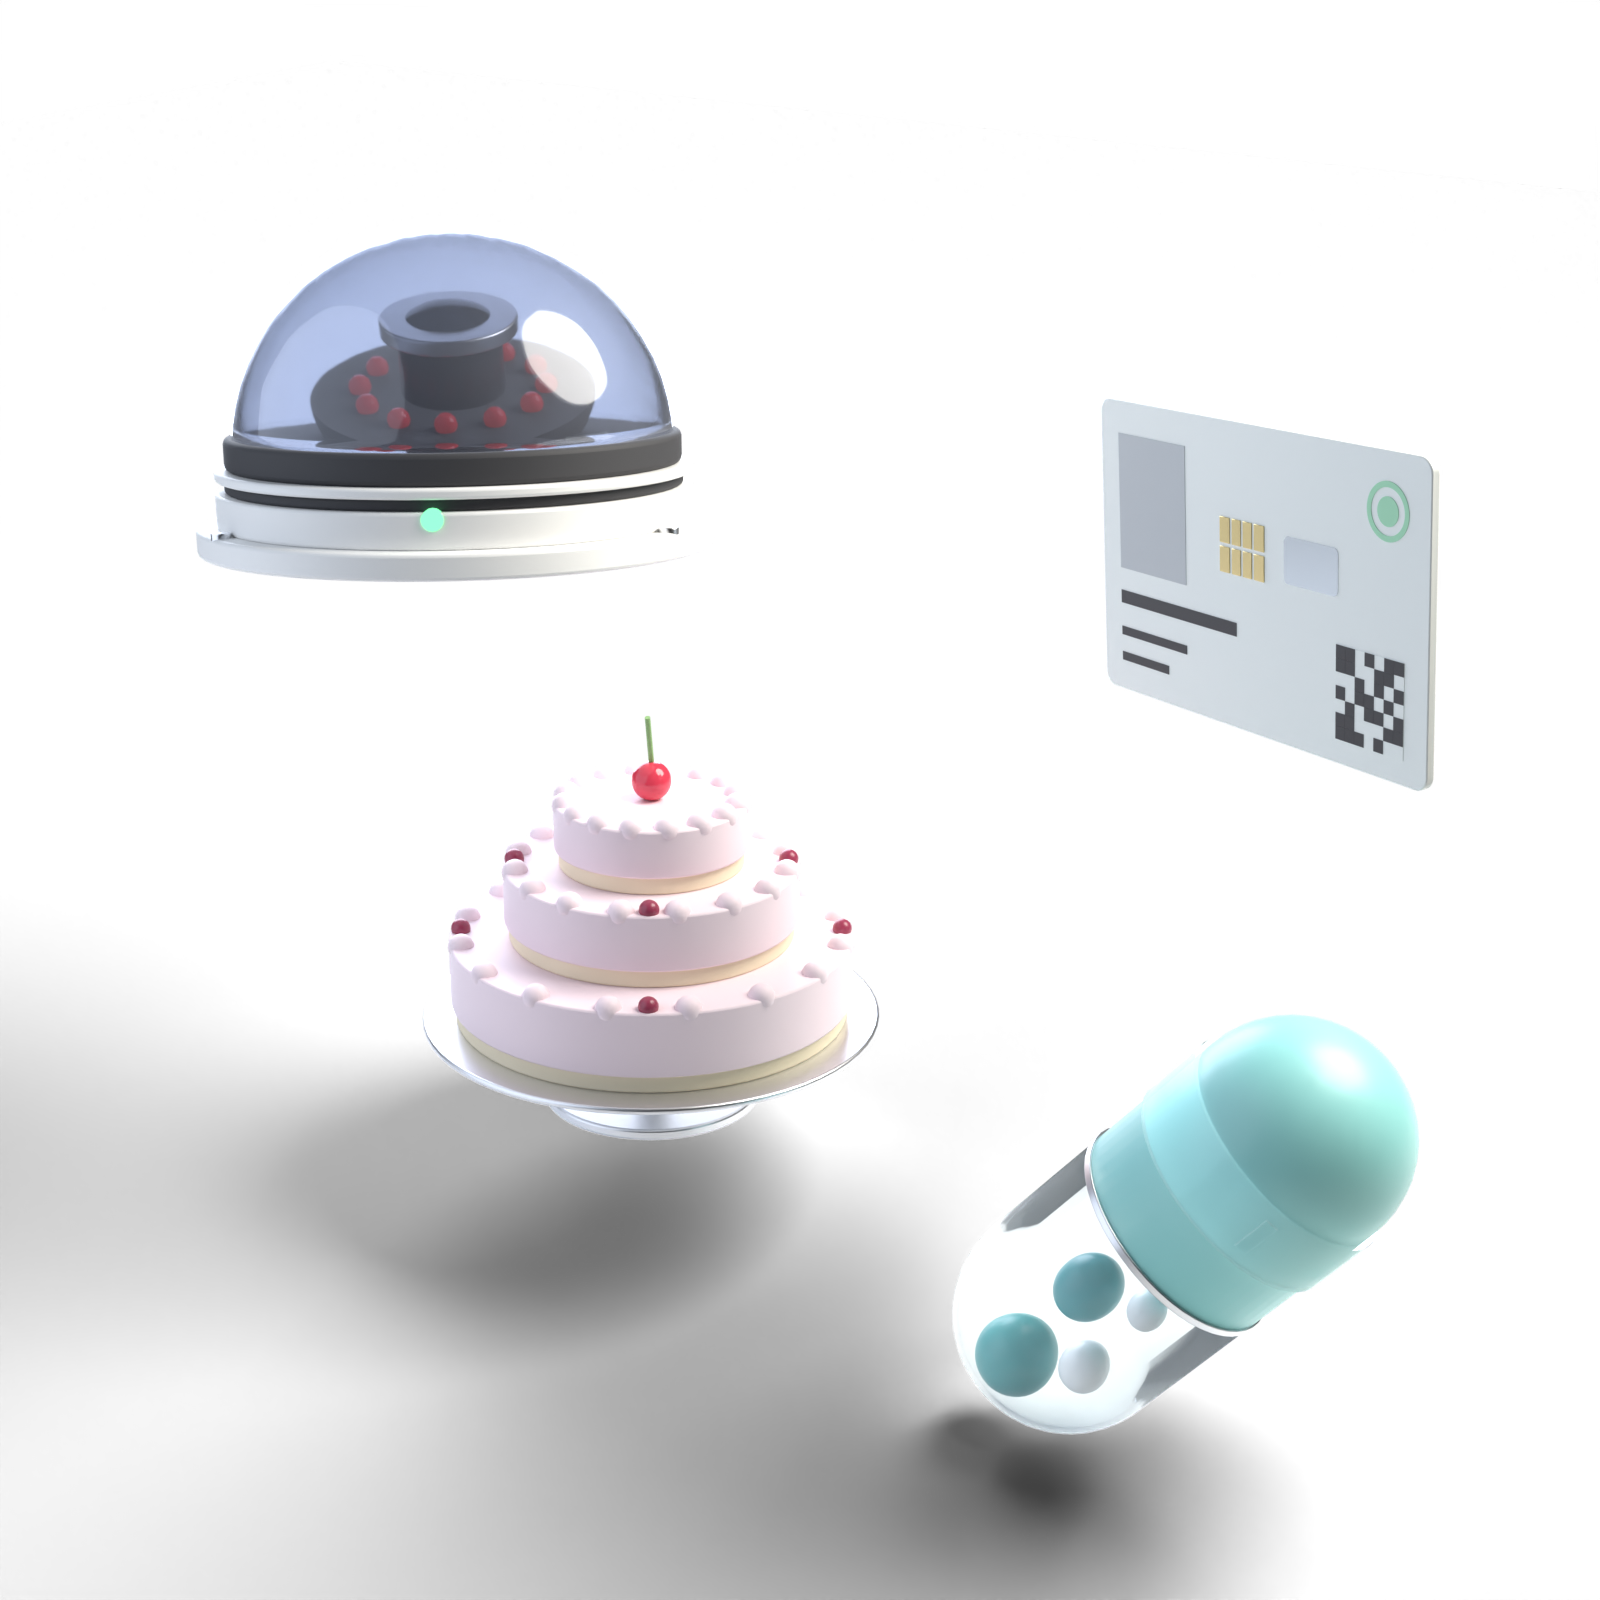
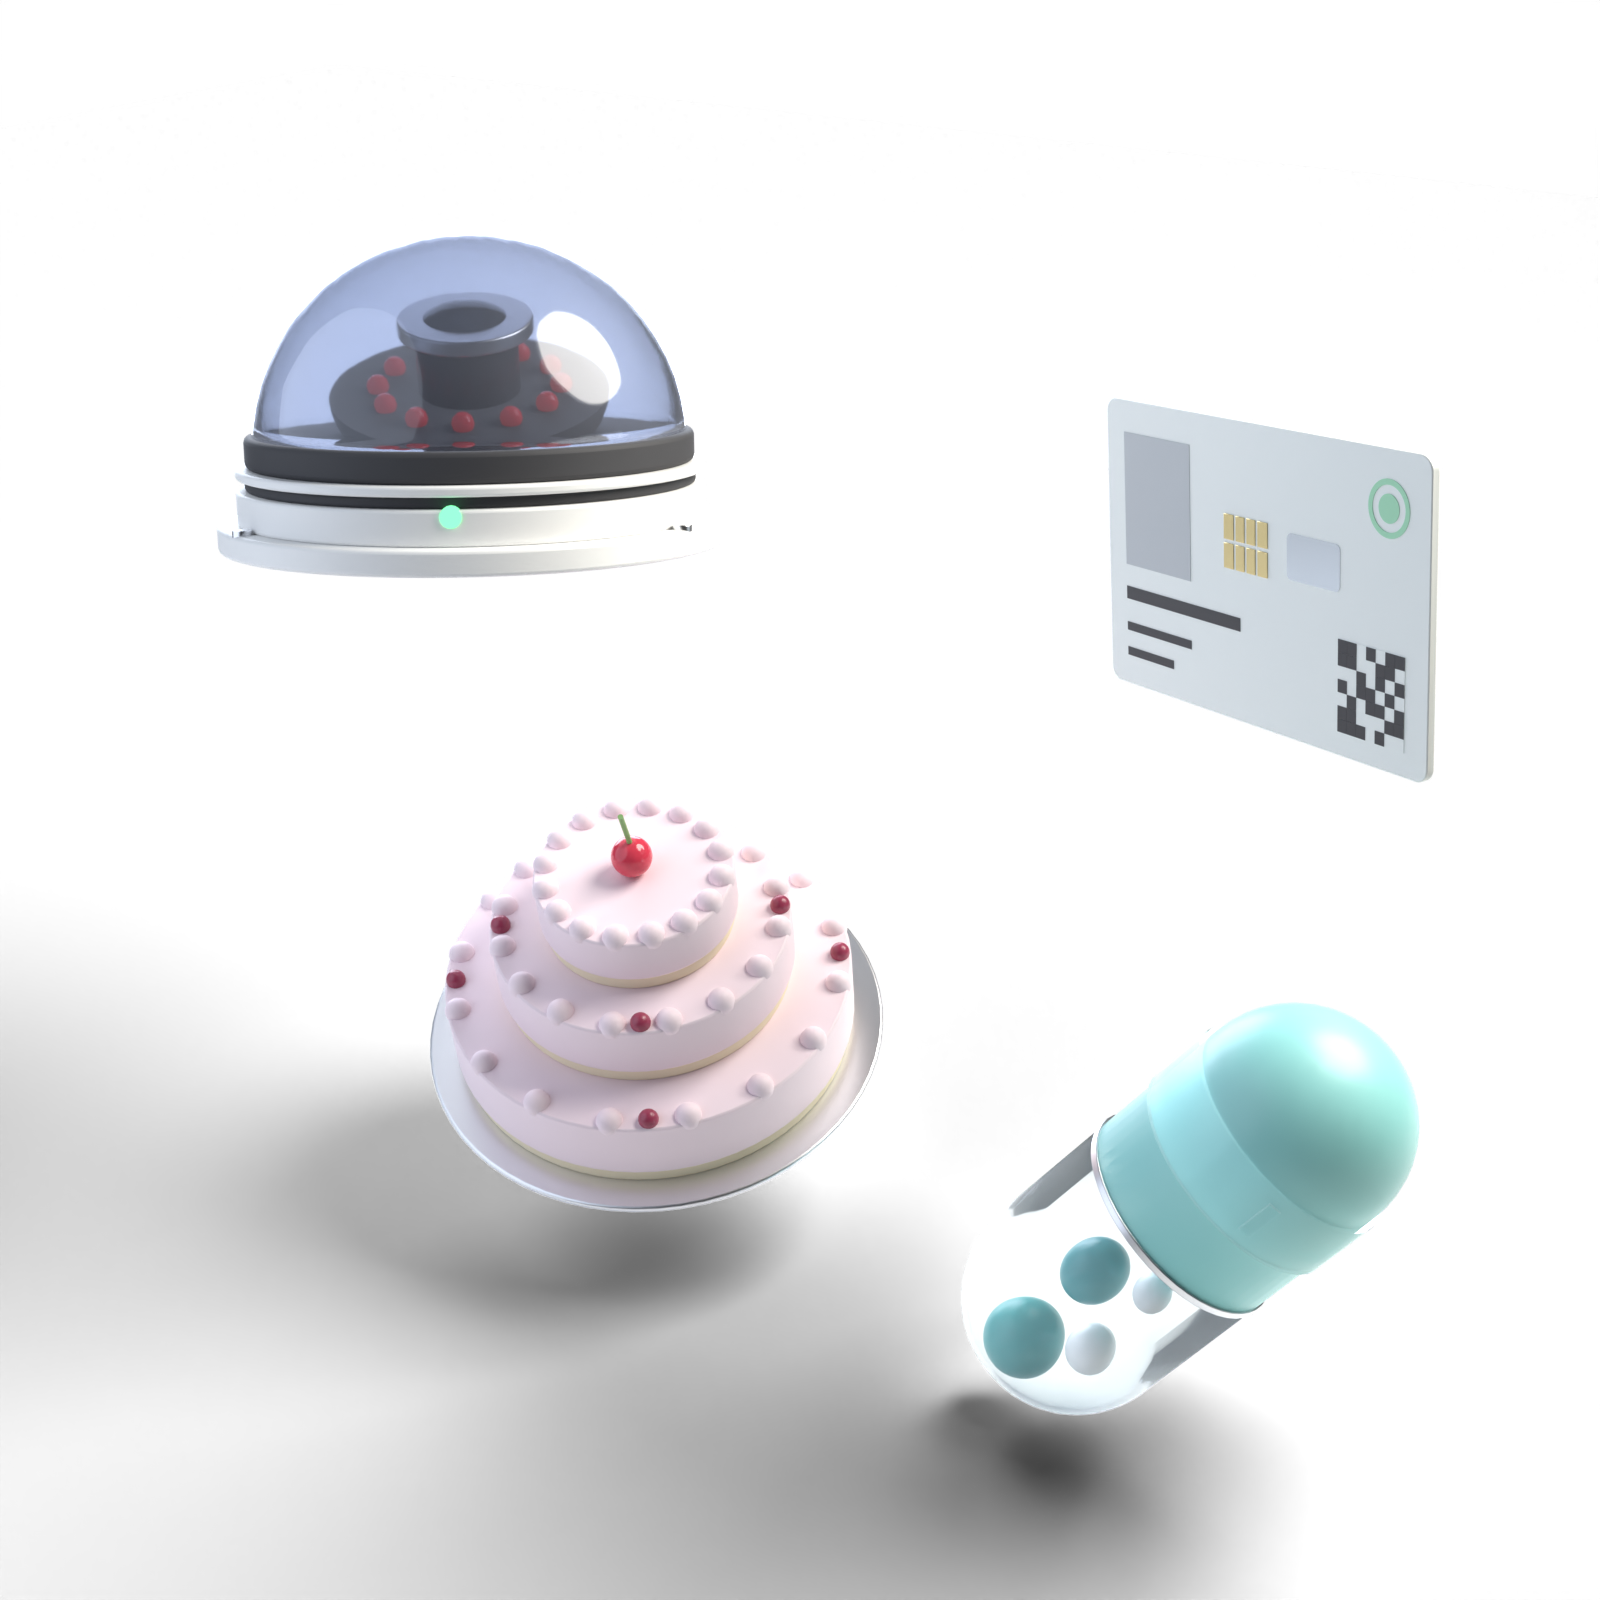
Fix hero sculpture flight, cake tilt, and finished-product overrides
Clamp the fly-out blend target's y (flightTarget in math.ts) so far-below
chapters don't vanish off-screen in the first few px of scroll; all four
objects now stay visibly in flight together. Tilt the cake slot toward the
camera so its tiers read. Force the hero sculpture to show finished
products (three cake tiers, printed card) regardless of chapter step state
while still inside the hero. Strengthen the Hero fallback remount test to
assert DOM node identity across a re-render.

diff --git a/src/scene/ObjectAnchor.tsx b/src/scene/ObjectAnchor.tsx
@@ -3,7 +3,7 @@ import { useFrame, useThree } from '@react-three/fiber';
 import { ContactShadows } from '@react-three/drei';
 import { MathUtils, Vector3, type Group } from 'three';
 import { CAMERA_DIST, CAMERA_FOV } from './CameraRig';
-import { heroExit, rectToWorld, type Vec3 } from './math';
+import { flightTarget, heroExit, rectToWorld, type Rect, type Vec3 } from './math';
 import { rectCenterOnZPlane } from './devices/screenAnchor';
 import { sceneStore } from './store';
 
@@ -47,6 +47,7 @@ export function ObjectAnchor({
   const centre = useMemo(() => new Vector3(), []);
   const heroCentre = useMemo(() => new Vector3(), []);
   const slotVec = useMemo(() => new Vector3(), []);
+  const targetRect = useMemo<Rect>(() => ({ x: 0, y: 0, w: 0, h: 0 }), []);
   const base = useRef<Base>({
     visible: false, haveChapter: false, haveHero: false, t: 1,
     heroX: 0, heroY: 0, heroScale: 0, chapterX: 0, chapterY: 0, chapterScale: 0,
@@ -92,8 +93,11 @@ export function ObjectAnchor({
       b.haveHero = haveHero;
       b.t = t;
       if (haveChapter) {
-        rectCenterOnZPlane(rect!, s.viewport, camera, centre);
-        const w = rectToWorld(rect!, s.viewport, CAMERA_FOV, CAMERA_DIST, view.width / view.height);
+        // P3-R12 fix-round-1 F1: clamp how far below the fold the blend target can be while
+        // still mid-flight (t < 1) — see flightTarget in math.ts. At t >= 1 this is a no-op copy.
+        const target = flightTarget(rect!, s.viewport.h, t, targetRect);
+        rectCenterOnZPlane(target, s.viewport, camera, centre);
+        const w = rectToWorld(target, s.viewport, CAMERA_FOV, CAMERA_DIST, view.width / view.height);
         b.chapterScale = (Math.min(w.scaleW, w.scaleH) * size) / 2; // models are ~2 units wide
         b.chapterX = centre.x;
         b.chapterY = centre.y;
@@ -113,7 +117,7 @@ export function ObjectAnchor({
     // rAF-scheduled listener; both already go through the store subscription below.
     const off = sceneStore.subscribe(apply);
     return () => { off(); };
-  }, [id, size, camera, invalidate, view.width, view.height, heroSlot, centre, heroCentre]);
+  }, [id, size, camera, invalidate, view.width, view.height, heroSlot, centre, heroCentre, targetRect]);
 
   // Runs on every rendered frame (R3F only renders one on demand — via the store-driven
   // invalidate() above, or HeroSculpture's own pointer-convergence loop), blending the cached

diff --git a/src/scene/objects/Card.tsx b/src/scene/objects/Card.tsx
@@ -2,7 +2,7 @@ import { useMemo } from 'react';
 import { Vector3 } from 'three';
 import { useModel } from '../loaders';
 import { useSceneSelector } from '../store';
-import { chapterPhaseFromRect, explodeAmount } from '../math';
+import { chapterPhaseFromRect, explodeAmount, heroExit } from '../math';
 import { cardPose } from './cardPose';
 import { PartObject } from './PartObject';
 import type { Vec3 } from './pose';
@@ -19,7 +19,12 @@ export function Card() {
     const n = new Vector3(0, 0, 1).applyQuaternion(plate.quaternion);
     return [n.x, n.y, n.z];
   }, [cached.scene]);
-  const state = useSceneSelector((s) => (s.stepState.asd as AsdState | undefined) ?? IDLE);
+  // P3-R11 fix-round-1 F3: the hero sculpture always shows the finished card (printed receipt),
+  // regardless of the asd chapter's own step state — the chapter state only applies once the
+  // hero has flown out. Boolean selector, so it only re-renders once per crossing (P2-R2).
+  const inHero = useSceneSelector((s) => heroExit(s.scrollY, s.viewport.h) < 1);
+  const rawState = useSceneSelector((s) => (s.stepState.asd as AsdState | undefined) ?? IDLE);
+  const state = inHero ? { ...rawState, receipt: true } : rawState;
   // Rounded to 3 decimals inside the selector, same as IpCamera.tsx (P2-R2): the phase changes
   // every scroll tick but the pose only differs once it crosses a ~0.001 threshold.
   const phase = useSceneSelector((s) => Math.round(chapterPhaseFromRect(s.rects.asd?.chapter, s.viewport.h) * 1000) / 1000);

diff --git a/src/scene/objects/Cake.tsx b/src/scene/objects/Cake.tsx
@@ -1,6 +1,6 @@
 import { useMemo } from 'react';
 import { useSceneSelector } from '../store';
-import { chapterPhaseFromRect, explodeAmount } from '../math';
+import { chapterPhaseFromRect, explodeAmount, heroExit } from '../math';
 import { cakePose } from './cakePose';
 import { PartObject } from './PartObject';
 import type { PastisState } from '../../flows/pastis/steps';
@@ -8,7 +8,12 @@ import type { PastisState } from '../../flows/pastis/steps';
 const IDLE: PastisState = { column: 'new', tiers: 1, flavour: '', lettering: '', configuring: false };
 
 export function Cake() {
-  const state = useSceneSelector((s) => (s.stepState.pastis as PastisState | undefined) ?? IDLE);
+  // P3-R11 fix-round-1 F3: the hero sculpture always shows the finished cake (three tiers),
+  // regardless of the pastis chapter's own step state — the chapter state only applies once the
+  // hero has flown out. Boolean selector, so it only re-renders once per crossing (P2-R2).
+  const inHero = useSceneSelector((s) => heroExit(s.scrollY, s.viewport.h) < 1);
+  const rawState = useSceneSelector((s) => (s.stepState.pastis as PastisState | undefined) ?? IDLE);
+  const state = inHero ? { ...rawState, tiers: 3 as const } : rawState;
   const phase = useSceneSelector((s) => Math.round(chapterPhaseFromRect(s.rects.pastis?.chapter, s.viewport.h) * 1000) / 1000);
   const explode = Math.round(explodeAmount(phase) * 1000) / 1000;
   const pose = useMemo(() => cakePose(state, explode), [state, explode]);

diff --git a/src/scene/math.ts b/src/scene/math.ts
@@ -107,6 +107,18 @@ export function heroExit(scrollY: number, vh: number): number {
   return Math.min(1, Math.max(0, scrollY / (0.5 * vh)));
 }
 
+// P3-R12 fix-round-1 F1: while flying out of the hero (t < 1), blending toward a chapter's REAL
+// rect sends far-below-the-fold chapters thousands of px off-screen in the first few px of
+// scroll — the object appears to vanish rather than fly. Clamp the target's y instead; at t >= 1
+// (today's behaviour) both endpoints are already off-screen, so the switch back to the real rect
+// is invisible. Mutates and returns `out` (default a fresh rect, for tests) so callers on a hot
+// path can pass a reused scratch rect instead of allocating one per call.
+export function flightTarget(rect: Rect, vh: number, t: number, out: Rect = { x: 0, y: 0, w: 0, h: 0 }): Rect {
+  out.x = rect.x; out.w = rect.w; out.h = rect.h;
+  out.y = t < 1 ? Math.min(rect.y, vh * 1.4) : rect.y;
+  return out;
+}
+
 // Rises 0→1 over phase 0.05–0.25, holds, falls back to 0 by 0.45; 0 elsewhere.
 export function explodeAmount(phase: number): number {
   const ease = (u: number) => 1 - Math.pow(1 - u, 3);

diff --git a/tests/scene-math.test.ts b/tests/scene-math.test.ts
@@ -1,4 +1,4 @@
-import { chapterIndex, chapterPhaseFromRect, explodeAmount, heroExit, isNearIdentity, lerpKeyframes, quadToMatrix3d, rectToWorld } from '../src/scene/math';
+import { chapterIndex, chapterPhaseFromRect, explodeAmount, flightTarget, heroExit, isNearIdentity, lerpKeyframes, quadToMatrix3d, rectToWorld } from '../src/scene/math';
 
 const rect = { x: 100, y: 50, w: 400, h: 250 };
 const corners = (r: typeof rect) => [
@@ -91,4 +91,11 @@ test('heroExit: 0 at the top, 0.5 a quarter viewport down, 1 by half a viewport 
   expect(heroExit(900, 900)).toBe(1);
   expect(heroExit(1800, 900)).toBe(1);
   expect(heroExit(0, 0)).toBe(0);
+});
+
+test('flightTarget: clamps y mid-flight, leaves near rects and the t=1 case alone (P3-R12)', () => {
+  const rect = { x: 10, y: 5000, w: 100, h: 200 };
+  expect(flightTarget(rect, 900, 0.5)).toEqual({ x: 10, y: 1260, w: 100, h: 200 });
+  expect(flightTarget(rect, 900, 1)).toEqual({ x: 10, y: 5000, w: 100, h: 200 });
+  expect(flightTarget({ ...rect, y: 300 }, 900, 0.5)).toEqual({ x: 10, y: 300, w: 100, h: 200 });
 });

diff --git a/tests/Hero.test.tsx b/tests/Hero.test.tsx
@@ -34,6 +34,14 @@ test('fades the fallback out and unmounts it once the scene opens', () => {
 });
 
 test('does not remount the fallback while the scene stays closed', () => {
-  const { container } = render(<MotionProvider forceReduced><Hero /></MotionProvider>);
-  expect(container.querySelector('.hero__sculpture img')).not.toBeNull();
+  const { container, rerender } = render(<MotionProvider forceReduced><Hero /></MotionProvider>);
+  const img = container.querySelector('.hero__sculpture img');
+  expect(img).not.toBeNull();
+
+  // An unrelated store emit with sceneOpen unchanged, then a forced re-render: the fallback
+  // must keep the same <img> instance, not tear down and recreate it.
+  act(() => { sceneStore.set({ sceneOpen: false }); });
+  rerender(<MotionProvider forceReduced><Hero /></MotionProvider>);
+
+  expect(container.querySelector('.hero__sculpture img')).toBe(img);
 });
